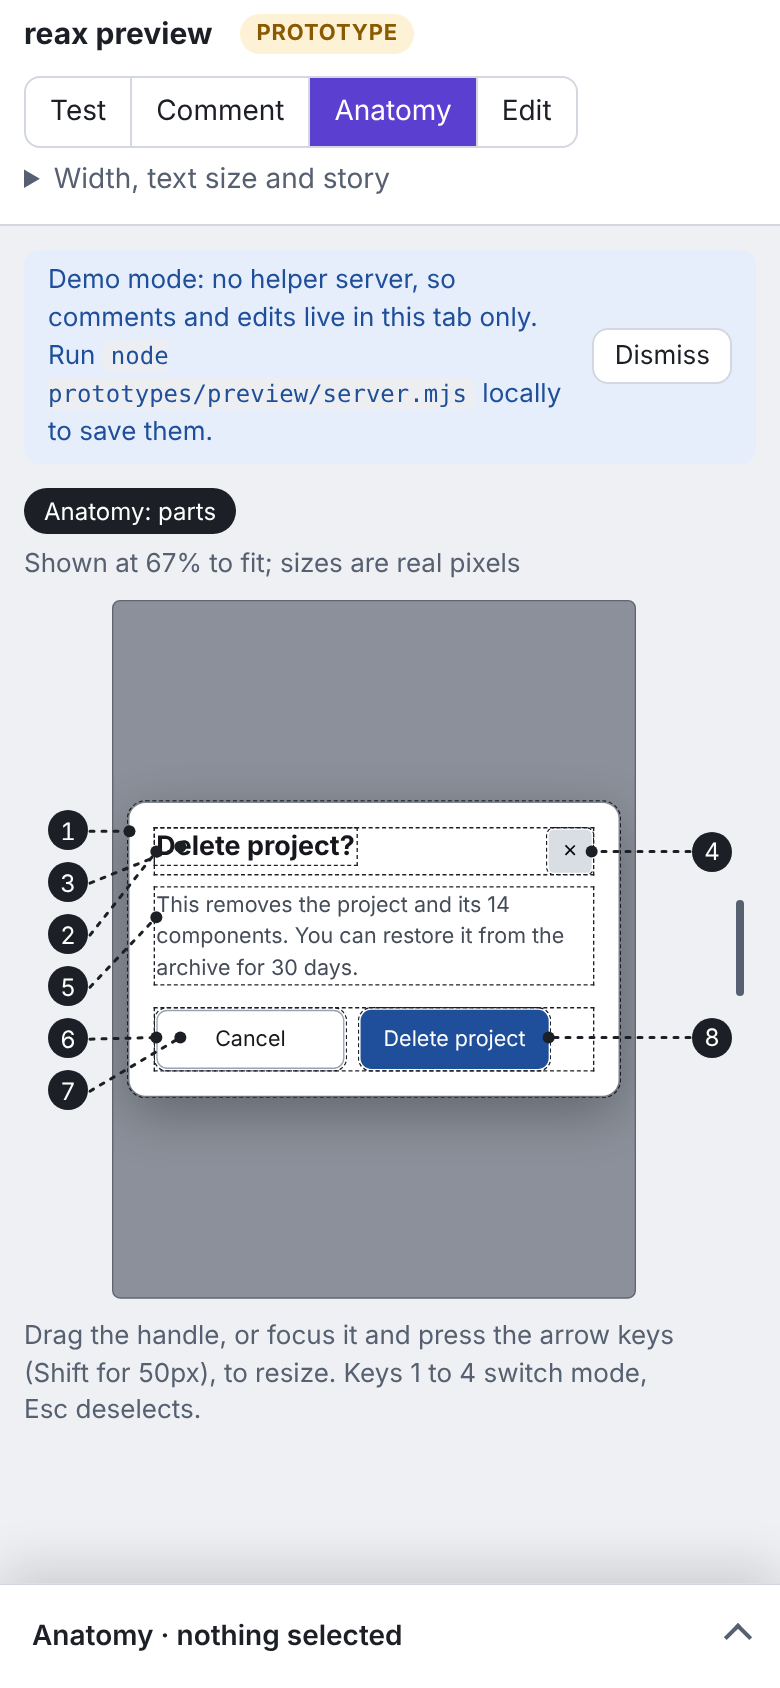
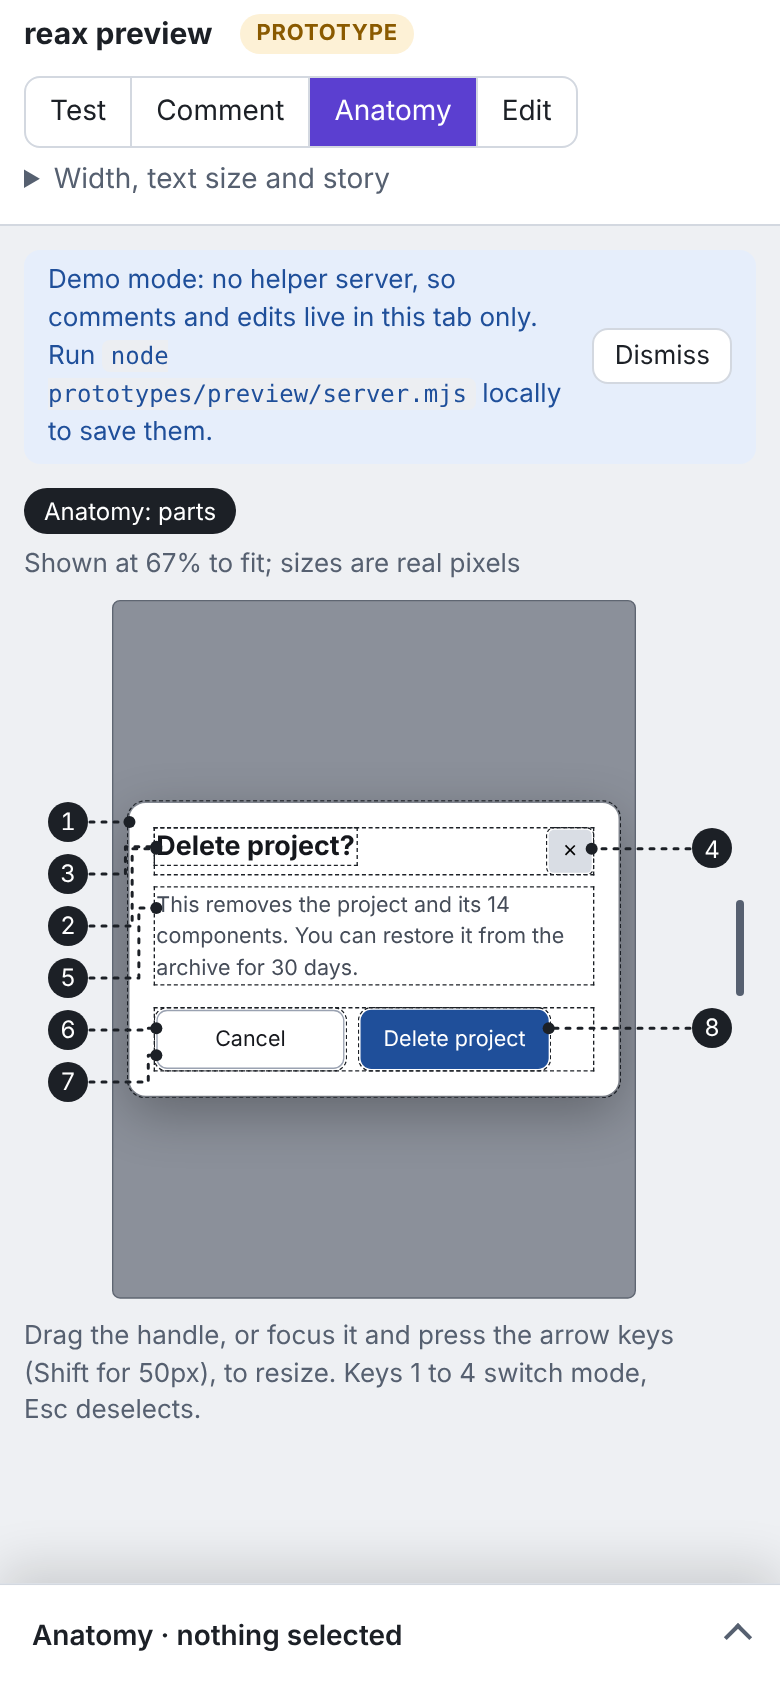
Anatomy parts: elbow-routed leader lines to element edges, clear-path side choice, names in the parts table
Leaders cannot cross each other or pass through text at any width, story or
text size (32 combinations checked). Throwaway. Not for main.

Claude-Session: https://claude.ai/code/session_01TSbSN6EG7Lo2rTLd5KhhbY

diff --git a/prototypes/preview/index.html b/prototypes/preview/index.html
@@ -340,20 +340,32 @@ function drawOverlay() {
     /* numbers sit in the margin beside the frame; a dotted leader runs from each number to its element */
     const NS = 'http://www.w3.org/2000/svg'; const svg = document.createElementNS(NS, 'svg');
     svg.setAttribute('width', '100%'); svg.setAttribute('height', '100%'); svg.style.cssText = 'position:absolute;inset:0;overflow:visible';
+    /* Each number sits in the margin on the side its element is nearest. The dotted leader runs out of the number, steps
+       vertically in a channel just outside the component, and enters the element's outer edge. Upper leaders take the outer
+       channels and lower ones the inner, and a number never sits above its element, so two leaders can never cross. */
+    const u = Math.max(0.35, state.scale); /* offsets and channel gaps shrink with the frame so they stay narrower than the gaps between parts */
     const anchors = []; const fr = frame.getBoundingClientRect(); const mid = (fr.left + fr.right) / 2;
+    const texts = $$('[data-slot]', stage).filter((e) => ['title', 'body', 'close', 'action'].includes(e.dataset.slot)).map((e) => { const r = e.getBoundingClientRect(); return { el: e, l: r.left - f.left, r: r.right - f.left, t: r.top - f.top, b: r.bottom - f.top }; });
     const items = $$('[data-slot]', stage).map((el, i) => {
-      /* each number goes in the margin on the side its element is nearest, so leaders stay short */
-      const r = el.getBoundingClientRect(); const side = (r.left + r.right) / 2 > mid + 1 ? 'right' : 'left';
-      let ax = side === 'left' ? r.left - f.left : r.right - f.left; const ay = r.top - f.top + Math.min(14, r.height / 2);
-      while (anchors.some((a) => Math.abs(a.x - ax) < 10 && Math.abs(a.y - ay) < 10)) ax += side === 'left' ? 12 : -12; /* nested parts share a corner: fan the end points out */
-      anchors.push({ x: ax, y: ay }); return { n: i + 1, side, ax, ay };
+      const r = el.getBoundingClientRect(); const L = r.left - f.left, R = r.right - f.left, y0 = r.top - f.top + Math.min(14 * u, r.height / 2);
+      /* the nearer margin, unless another part with text sits between it and this element (a button beside a button) */
+      const clear = (s) => !texts.some((t) => t.el !== el && t.t <= y0 && y0 <= t.b && (s === 'left' ? t.l < L && t.r <= L + 1 : t.r > R && t.l >= R - 1));
+      const nearest = (r.left + r.right) / 2 > mid + 1 ? 'right' : 'left'; const other = nearest === 'left' ? 'right' : 'left';
+      const side = clear(nearest) ? nearest : clear(other) ? other : nearest;
+      const ax = side === 'left' ? L : R;
+      /* parts that share a corner (header and title) enter the same edge at different heights */
+      const ys = [r.top - f.top + Math.min(14 * u, r.height / 2), r.bottom - f.top - Math.min(10 * u, r.height / 2), (r.top + r.bottom) / 2 - f.top];
+      const ay = ys.find((y) => !anchors.some((a) => a.side === side && Math.abs(a.y - y) < 10 * u && Math.abs(a.x - ax) < 40 * u)) ?? ys[0];
+      anchors.push({ side, x: ax, y: ay }); return { n: i + 1, side, ax, ay };
     }).sort((a, b) => a.ay - b.ay || a.n - b.n);
-    const lastY = { left: -Infinity, right: -Infinity };
+    const edge = { left: Math.min(...items.filter((i) => i.side === 'left').map((i) => i.ax)) - 8 * u, right: Math.max(...items.filter((i) => i.side === 'right').map((i) => i.ax)) + 8 * u };
+    const lastY = { left: -Infinity, right: -Infinity }; const used = { left: 0, right: 0 };
     items.forEach((it) => {
       const by = Math.max(it.ay, lastY[it.side] + 26); lastY[it.side] = by;
+      const k = used[it.side]++; const cx = it.side === 'left' ? Math.min(edge.left + 5 * u * k, it.ax - 6 * u) : Math.max(edge.right - 5 * u * k, it.ax + 6 * u);
       const bx = it.side === 'left' ? -22 : f.width - 22; const ex = it.side === 'left' ? bx + 11 : bx - 11;
-      const line = document.createElementNS(NS, 'polyline'); line.setAttribute('points', `${ex},${by} ${it.ax},${it.ay}`);
-      Object.entries({ fill: 'none', stroke: '#1c2026', 'stroke-width': '1.5', 'stroke-dasharray': '2 4', 'stroke-linecap': 'round' }).forEach(([k, v]) => line.setAttribute(k, v)); svg.appendChild(line);
+      const line = document.createElementNS(NS, 'polyline'); line.setAttribute('points', `${ex},${by} ${cx},${by} ${cx},${it.ay} ${it.ax},${it.ay}`); line.setAttribute('data-n', it.n);
+      Object.entries({ fill: 'none', stroke: '#1c2026', 'stroke-width': '1.5', 'stroke-dasharray': '2 4', 'stroke-linecap': 'round', 'stroke-linejoin': 'round' }).forEach(([k, v]) => line.setAttribute(k, v)); svg.appendChild(line);
       const dot = document.createElementNS(NS, 'circle'); dot.setAttribute('cx', it.ax); dot.setAttribute('cy', it.ay); dot.setAttribute('r', 3); dot.setAttribute('fill', '#1c2026'); svg.appendChild(dot);
       const b = document.createElement('div'); b.className = 'badge'; b.textContent = it.n; b.style.left = bx + 'px'; b.style.top = by + 'px'; badges.appendChild(b);
     });
@@ -501,7 +513,7 @@ function anatomyPanel() {
   const tabs = ['parts', 'props', 'tokens', 'accessibility'];
   let h = `<h3>Anatomy</h3><div class="tabs" id="views" role="tablist" aria-label="Anatomy view">${tabs.map((t) => `<button type="button" role="tab" data-view="${t}" aria-selected="${state.view === t}">${t[0].toUpperCase() + t.slice(1)}</button>`).join('')}</div>`;
   const slots = $$('[data-slot]', stage);
-  if (state.view === 'parts') h += `<p class="note">Numbers on the frame match this list.</p><table><tr><th>#</th><th>slot</th><th>element</th><th>role</th></tr>${slots.map((e, i) => `<tr><td>${i + 1}</td><td><code>${e.dataset.slot}</code></td><td>${e.tagName.toLowerCase()}</td><td>${roleOf(e)}</td></tr>`).join('')}</table>`;
+  if (state.view === 'parts') h += `<p class="note">Numbers on the frame match this list.</p><table><tr><th>#</th><th>slot</th><th>element</th><th>role</th></tr>${slots.map((e, i) => `<tr><td>${i + 1}</td><td><code>${e.dataset.slot}</code>${isTarget(e) || e.tagName === 'H2' ? `<div class="note">“${esc(nameOf(e))}”</div>` : ''}</td><td>${e.tagName.toLowerCase()}</td><td>${roleOf(e)}</td></tr>`).join('')}</table>`;
   if (state.view === 'props') { const rows = [['open', 'boolean', 'true'], ['title', 'ReactNode (required)', JSON.stringify($('[data-slot="title"]', stage).textContent)], ['description', 'ReactNode', JSON.stringify($('[data-slot="body"]', stage).textContent.slice(0, 40) + '…')], ['role', "'dialog' | 'alertdialog'", "'dialog'"], ['size', "'sm' | 'md' | 'lg' | 'fullscreen'", "'md'"], ['dismissOnOutsideClick', 'boolean', 'false'], ['showCloseButton', 'boolean', 'true']]; h += `<p class="note">Story: ${state.story}. Types and JSDoc come from the component source.</p><table><tr><th>prop</th><th>type</th><th>value</th></tr>${rows.map((r) => `<tr><td><code>${r[0]}</code></td><td>${esc(r[1])}</td><td><code>${esc(r[2])}</code></td></tr>`).join('')}</table>`; }
   if (state.view === 'tokens') { const el = state.selected || $('[data-slot="dialog"]', stage); h += (state.selected ? selectedCard() : '<p class="note">Showing the dialog. Click an element to inspect another.</p>') + `<table><tr><th>property</th><th>token</th></tr>${['padding', 'borderRadius', 'fontSize', 'color', 'backgroundColor', 'height'].map((k) => `<tr><td>${FIELDS[k].label}</td><td><code>${esc(currentToken(el, FIELDS[k]))}</code></td></tr>`).join('')}</table>`; }
   if (state.view === 'accessibility') { const focus = $$('button,[tabindex]', stage); h += `<table><tr><th>#</th><th>slot</th><th>role</th><th>name</th><th>size</th></tr>${slots.map((e, i) => { const [w, hh] = sizeOf(e); const bad = isTarget(e) && (w < FLOOR || hh < FLOOR); return `<tr><td>${i + 1}</td><td><code>${e.dataset.slot}</code></td><td>${roleOf(e)}</td><td>${esc(nameOf(e)) || '<em>none</em>'}</td><td>${isTarget(e) ? `<span class="tag" style="${bad ? 'background:var(--bad-wash);color:var(--bad)' : ''}">${w}×${hh}${bad ? ' too small' : ''}</span>` : '–'}</td></tr>`; }).join('')}</table><h3>Focus order</h3><ol>${focus.map((f) => `<li>${esc(nameOf(f))}</li>`).join('')}</ol><p class="note">Buttons under ${FLOOR}px are flagged. The dialog takes its name from its title.</p>`; }
